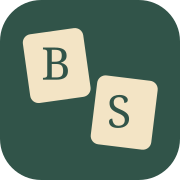
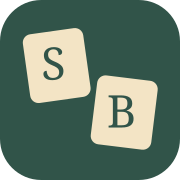
Reverse journal brand tiles to S then B

Changed region(s): [[0.5833, 0.5278, 0.75, 0.7222], [0.2222, 0.25, 0.3889, 0.4444]]

diff --git a/ben-sharon-scrabble/src/components/journal-app.tsx b/ben-sharon-scrabble/src/components/journal-app.tsx
@@ -112,8 +112,8 @@ export function JournalApp({ initialTab, initialGameId }: { initialTab: Tab; ini
   const recordGame = () => { if (journal && !loadError) { setDialogError(''); setDialog({ kind: 'record' }); } };
   async function runAction(action: () => Promise<void>) { setConfirmBusy(true); setDialogError(''); try { await action(); setDialog(null); } catch (e) { setDialogError(e instanceof Error ? e.message : 'Could not save changes.'); } finally { setConfirmBusy(false); } }
   return <div className="app-shell"><a href="#main" className="skip-link">Skip to content</a>
-    <aside className="sidebar"><Link href="/" className="brand" aria-label="One More Game home"><div className="brand-tiles"><Tile letter="B" points={3} /><Tile letter="S" /></div><div className="brand-name">one more<br /><strong>game.</strong></div></Link><span className="sidebar-kicker">BEN & SHARON’S JOURNAL</span><nav aria-label="Primary navigation" className="desktop-nav">{tabs.map(t => <Link key={t.id} href={t.href} className={initialTab === t.id ? 'active' : ''} aria-current={initialTab === t.id ? 'page' : undefined}><t.icon size={20} strokeWidth={1.7} />{t.label}{initialTab === t.id && <span className="nav-dot" />}</Link>)}</nav><button className="button primary sidebar-record" onClick={recordGame} disabled={!journal || !!loadError}><Plus size={18} />Record game</button><div className="sidebar-bottom"><div className="sidebar-quote"><Heart size={17} /><p>Good words.<br />Great company.</p><span>Made for two.</span></div><div className="local-label"><span className="status-dot" />{cloud ? syncState === 'live' ? 'SHARED JOURNAL · LIVE' : syncState === 'offline' ? 'SHARED JOURNAL · OFFLINE' : 'SHARED · RECONNECTING' : 'SAVED ON THIS DEVICE'}</div></div></aside>
-    <div className="main-wrapper"><header className="topbar"><Link className="mobile-brand" href="/"><Tile letter="B" small points={3} /><Tile letter="S" small /><span>one more game.</span></Link><span className="topbar-label">A JOURNAL OF FRIENDLY COMPETITION</span><div className="topbar-right"><span className="private-label"><ShieldCheck size={14} />Your personal journal</span><span className="avatar ben">B</span><span className="avatar sharon">S</span></div></header>
+    <aside className="sidebar"><Link href="/" className="brand" aria-label="One More Game home"><div className="brand-tiles"><Tile letter="S" /><Tile letter="B" points={3} /></div><div className="brand-name">one more<br /><strong>game.</strong></div></Link><span className="sidebar-kicker">BEN & SHARON’S JOURNAL</span><nav aria-label="Primary navigation" className="desktop-nav">{tabs.map(t => <Link key={t.id} href={t.href} className={initialTab === t.id ? 'active' : ''} aria-current={initialTab === t.id ? 'page' : undefined}><t.icon size={20} strokeWidth={1.7} />{t.label}{initialTab === t.id && <span className="nav-dot" />}</Link>)}</nav><button className="button primary sidebar-record" onClick={recordGame} disabled={!journal || !!loadError}><Plus size={18} />Record game</button><div className="sidebar-bottom"><div className="sidebar-quote"><Heart size={17} /><p>Good words.<br />Great company.</p><span>Made for two.</span></div><div className="local-label"><span className="status-dot" />{cloud ? syncState === 'live' ? 'SHARED JOURNAL · LIVE' : syncState === 'offline' ? 'SHARED JOURNAL · OFFLINE' : 'SHARED · RECONNECTING' : 'SAVED ON THIS DEVICE'}</div></div></aside>
+    <div className="main-wrapper"><header className="topbar"><Link className="mobile-brand" href="/"><Tile letter="S" small /><Tile letter="B" small points={3} /><span>one more game.</span></Link><span className="topbar-label">A JOURNAL OF FRIENDLY COMPETITION</span><div className="topbar-right"><span className="private-label"><ShieldCheck size={14} />Your personal journal</span><span className="avatar ben">B</span><span className="avatar sharon">S</span></div></header>
       <main id="main"><div className="page-header"><div><div className="eyebrow page-eyebrow">{initialTab === 'home' ? 'WELCOME TO YOUR SIDE OF THE BOARD' : initialTab === 'history' ? 'YOUR GAME JOURNAL' : initialTab === 'stats' ? 'A HEALTHY DOSE OF COMPETITION' : 'THE LITTLE DETAILS'}</div><h1>{headings[initialTab][0]}</h1><p>{headings[initialTab][1]}</p></div><button className="button primary header-record" onClick={recordGame} disabled={!journal || !!loadError}><Plus size={19} />Record game</button></div>
       {cloud && (syncError || syncState === 'offline') && <div className="sync-notice" role="status">{syncState === 'offline' ? 'You’re offline. Reconnect to save changes and see updates from the other phone.' : syncError}</div>}
       {loadError && cloud ? <section className="card recovery-card"><h2>Let’s reconnect your journal.</h2><p role="alert">{loadError}</p><p>Your shared games and original local data have not been changed.</p><button className="button secondary" onClick={() => setReload(reload + 1)}>Try again</button></section> : loadError ? <section className="card recovery-card"><h2>Your saved journal needs attention.</h2><p role="alert">{loadError}</p><p>Your browser’s saved data has not been overwritten. Download it before resetting, or use another browser if storage is disabled.</p><button className="button secondary" onClick={() => { const raw = localStorage.getItem(STORAGE_KEY); if (raw) download(raw, 'one-more-game-recovery.json'); }}><Download size={17} />Download saved data</button><button className="button danger-quiet" onClick={() => showConfirm({ kind: 'confirm', title: 'Reset this browser’s journal?', message: 'This permanently replaces the saved journal on this browser with an empty one. Download the recovery file first. No other devices are affected.', label: 'Reset local journal', action: async () => { const empty: Journal = { version: 1, games: [], players: structuredClone(DEFAULT_PLAYERS) }; await localRepository.save(empty); setJournal(empty); setLoadError(''); } })}>Reset local journal</button></section> : !journal ? <div className="loading-state"><div className="loading-tile"><Tile letter="B" /></div><p>Opening your journal…</p></div> : <>

diff --git a/ben-sharon-scrabble/src/components/cloud-provider.tsx b/ben-sharon-scrabble/src/components/cloud-provider.tsx
@@ -12,7 +12,7 @@ interface JournalConnection { cloud: boolean; repository: JournalRepository; pla
 const Context = createContext<JournalConnection>({ cloud: false, repository: localRepository });
 export function useJournalConnection() { return useContext(Context); }
 function AuthCard({ children }: { children: React.ReactNode }) {
-  return <main className="auth-shell"><div className="auth-brand"><Tile letter="B" points={3} /><Tile letter="S" /><span>one more game.</span></div><section className="card auth-card">{children}</section><p className="auth-caption">Two players. One private journal.</p></main>;
+  return <main className="auth-shell"><div className="auth-brand"><Tile letter="S" /><Tile letter="B" points={3} /><span>one more game.</span></div><section className="card auth-card">{children}</section><p className="auth-caption">Two players. One private journal.</p></main>;
 }
 function SignIn({ initialError }: { initialError: string }) {
   const [email, setEmail] = useState('');

diff --git a/ben-sharon-scrabble/src/components/ui.tsx b/ben-sharon-scrabble/src/components/ui.tsx
@@ -24,6 +24,6 @@ export function GameCard({ game, onOpen, compact = false }: { game: Game; onOpen
   </button>;
 }
 export function EmptyState({ title = 'Your story starts here.', text = 'Two scores. A few good words. Record your first game together.', action }: { title?: string; text?: string; action?: React.ReactNode }) {
-  return <div className="empty-state"><div className="empty-tiles"><Tile letter="B" points={3} /><Tile letter="S" /></div><h3>{title}</h3><p>{text}</p>{action}</div>;
+  return <div className="empty-state"><div className="empty-tiles"><Tile letter="S" /><Tile letter="B" points={3} /></div><h3>{title}</h3><p>{text}</p>{action}</div>;
 }
 export function number(value: number | null, digits = 0) { return value === null ? '—' : value.toLocaleString('en', { maximumFractionDigits: digits, minimumFractionDigits: digits }); }

diff --git a/ben-sharon-scrabble/public/sw.js b/ben-sharon-scrabble/public/sw.js
@@ -1,5 +1,5 @@
 // Local journal data stays in localStorage, separate from disposable app caches.
-const CACHE = 'one-more-game-v3';
+const CACHE = 'one-more-game-v4';
 const PAGES = ['/', '/history', '/stats', '/more'];
 self.addEventListener('install', event => {
   self.skipWaiting();
